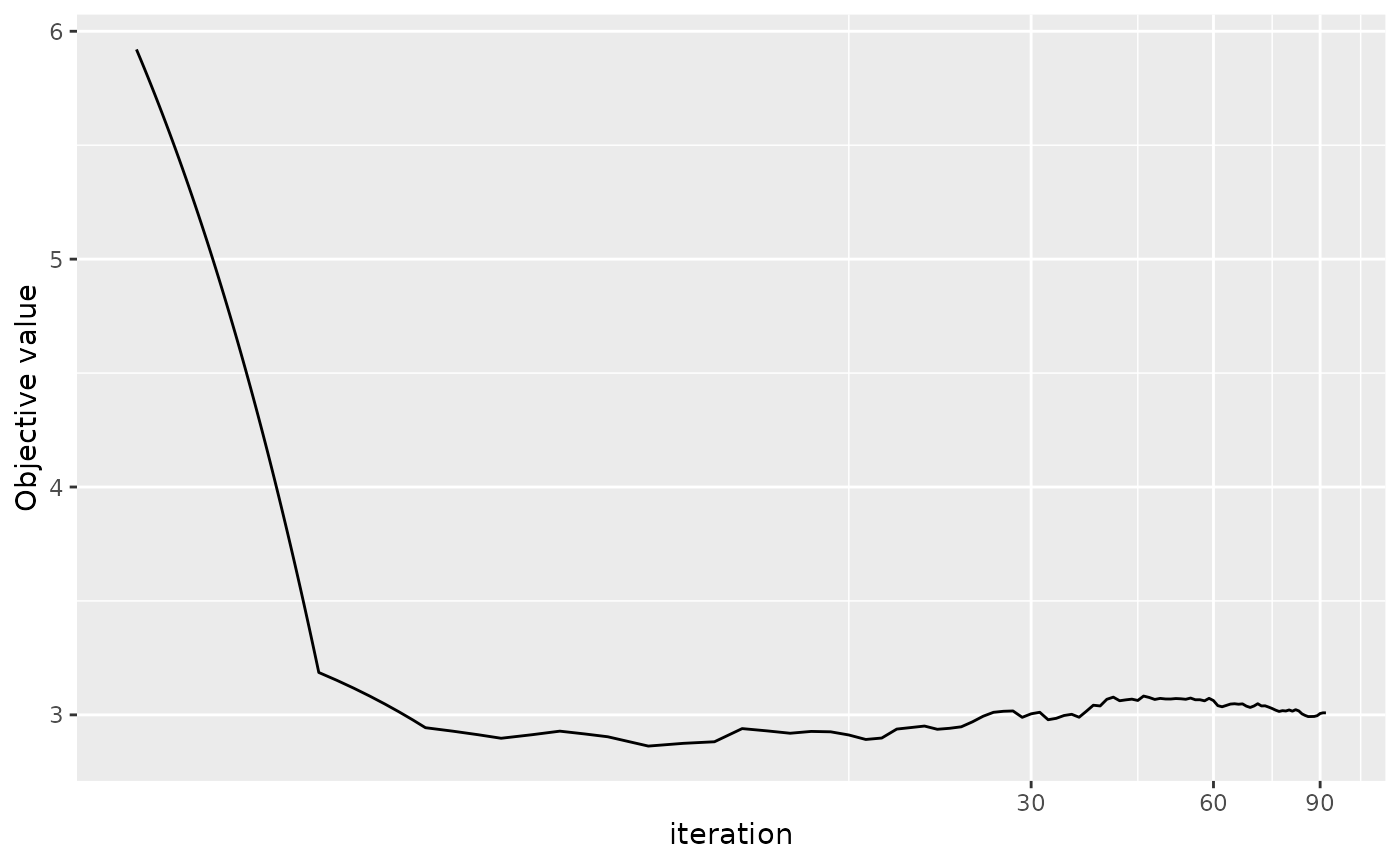
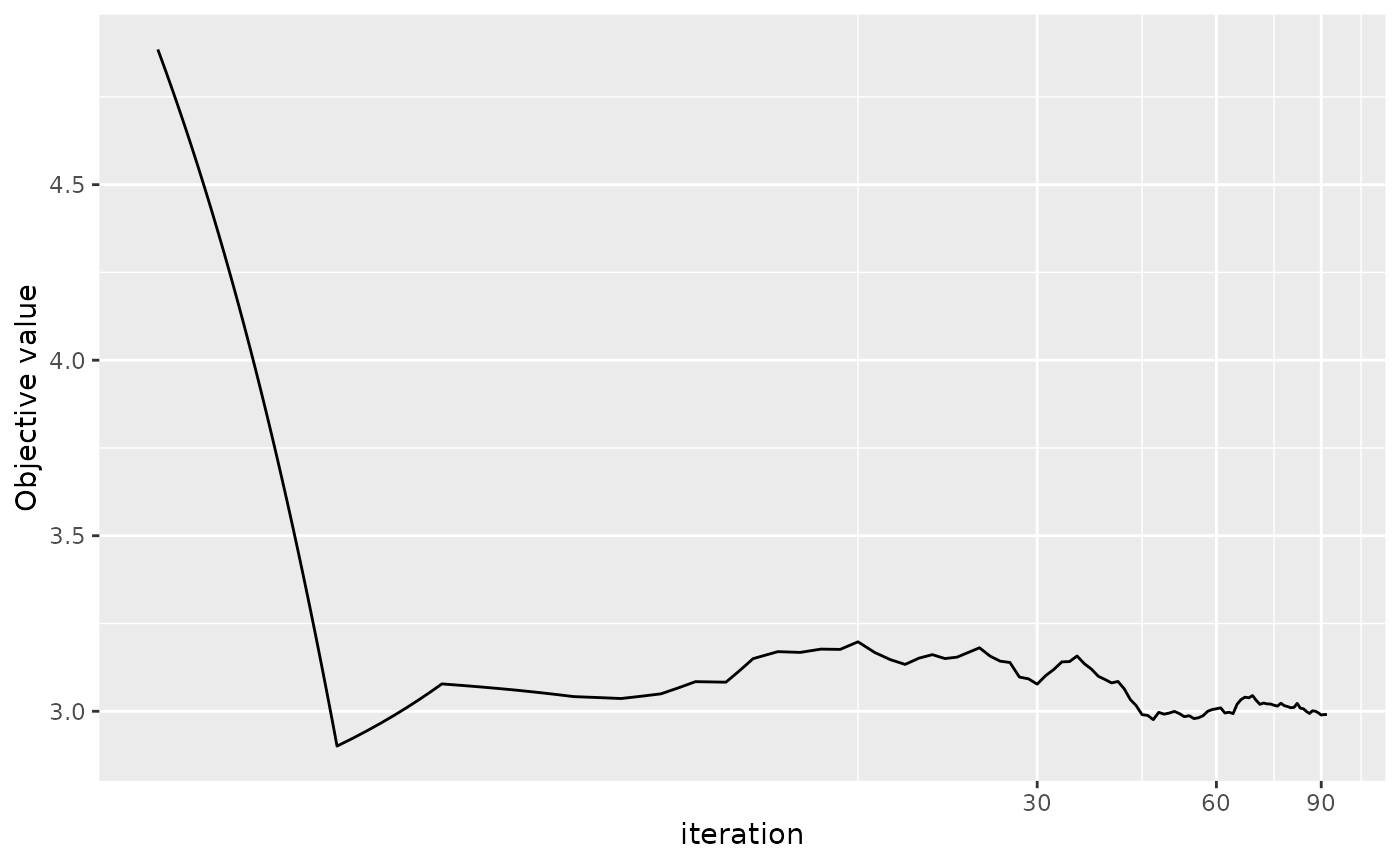
Deploying to gh-pages from @ FinYang/RRRR@dd312e85449cbbcb3aed78cf731174618f8fe3c3 🚀

diff --git a/articles/RRRR.html b/articles/RRRR.html
@@ -157,9 +157,9 @@ regression, use function <code>RRR_sim</code>.</p>
 <span><span class="co">#&gt; </span></span>
 <span><span class="co">#&gt; Coefficients:</span></span>
 <span><span class="co">#&gt;         mu        A        B        D   Sigma1   Sigma2   Sigma3</span></span>
-<span><span class="co">#&gt; 1  0.10000  0.62721  1.12936  0.13125  1.00000  0.00000  0.00000</span></span>
-<span><span class="co">#&gt; 2  0.10000 -2.10310 -1.11001  0.75837  0.00000  1.00000  0.00000</span></span>
-<span><span class="co">#&gt; 3  0.10000  0.32877  0.67127  0.79164  0.00000  0.00000  1.00000</span></span></code></pre></div>
+<span><span class="co">#&gt; 1  0.10000  0.81409 -0.69149  0.17221  1.00000  0.00000  0.00000</span></span>
+<span><span class="co">#&gt; 2  0.10000 -0.99945 -1.28426 -1.32513  0.00000  1.00000  0.00000</span></span>
+<span><span class="co">#&gt; 3  0.10000 -0.92986 -0.66009 -0.40722  0.00000  0.00000  1.00000</span></span></code></pre></div>
 <p>A number of parameters can be specified. See <code><a href="../reference/RRR_sim.html">?RRR_sim</a></code>.
 The default arguments are set in such a way that the matrix resulted
 from <span class="math inline">\(AB'\)</span> will be a reduced rank
@@ -172,16 +172,16 @@ coefficient matrix with rank of <span class="math inline">\(r\)</span>.</p>
 <span><span class="co">#&gt;   ..$ N    : num 1000</span></span>
 <span><span class="co">#&gt;   ..$ Q    : num 3</span></span>
 <span><span class="co">#&gt;   ..$ R    : num 1</span></span>
-<span><span class="co">#&gt;   ..$ A    : num [1:3, 1] 0.627 -2.103 0.329</span></span>
-<span><span class="co">#&gt;   ..$ B    : num [1:3, 1] 1.129 -1.11 0.671</span></span>
+<span><span class="co">#&gt;   ..$ A    : num [1:3, 1] 0.814 -0.999 -0.93</span></span>
+<span><span class="co">#&gt;   ..$ B    : num [1:3, 1] -0.691 -1.284 -0.66</span></span>
 <span><span class="co">#&gt;   ..$ mu   : num [1:3] 0.1 0.1 0.1</span></span>
-<span><span class="co">#&gt;   ..$ D    : num [1:3, 1] 0.131 0.758 0.792</span></span>
+<span><span class="co">#&gt;   ..$ D    : num [1:3, 1] 0.172 -1.325 -0.407</span></span>
 <span><span class="co">#&gt;   ..$ r    : num 1</span></span>
 <span><span class="co">#&gt;   ..$ Sigma: num [1:3, 1:3] 1 0 0 0 1 0 0 0 1</span></span>
-<span><span class="co">#&gt;   ..$ innov: num [1:1000, 1:3] 1.419 -1.039 4.592 -1.042 -0.419 ...</span></span>
-<span><span class="co">#&gt;  $ y   : num [1:1000, 1:3] 2.166 -1.591 5.021 -0.767 -0.465 ...</span></span>
-<span><span class="co">#&gt;  $ x   : num [1:1000, 1:3] 0.896 0.12 1.335 -0.384 0.494 ...</span></span>
-<span><span class="co">#&gt;  $ z   : num [1:1000] 0.1566 -0.9495 0.0426 0.5244 0.6924 ...</span></span>
+<span><span class="co">#&gt;   ..$ innov: num [1:1000, 1:3] -1.038 0.379 1.043 -0.479 1.511 ...</span></span>
+<span><span class="co">#&gt;  $ y   : num [1:1000, 1:3] -2.112 0.121 1.523 0.483 1.089 ...</span></span>
+<span><span class="co">#&gt;  $ x   : num [1:1000, 1:3] 0.947 -0.203 0.526 0.156 0.455 ...</span></span>
+<span><span class="co">#&gt;  $ z   : num [1:1000] 0.515 0.83 0.289 0.777 -0.638 ...</span></span>
 <span><span class="co">#&gt;  - attr(*, "class")= chr [1:2] "RRR_data" "list"</span></span></code></pre></div>
 <p>The returned list of <code>RRR_sim</code> contains the input
 specifications and the data points <span class="math inline">\(y\)</span>, <span class="math inline">\(x\)</span>
@@ -206,9 +206,9 @@ and outliers.</p>
 <span><span class="co">#&gt; </span></span>
 <span><span class="co">#&gt; Coefficients:</span></span>
 <span><span class="co">#&gt;          mu         A         B         D    Sigma1    Sigma2    Sigma3</span></span>
-<span><span class="co">#&gt; 1  0.134171  1.166743  0.665654  0.096133  2.338893  0.119317  0.044541</span></span>
-<span><span class="co">#&gt; 2  0.065551 -3.736993 -0.626733  0.697649  0.119317  2.367729  0.013317</span></span>
-<span><span class="co">#&gt; 3  0.160009  0.530910  0.382859  0.761501  0.044541  0.013317  2.333359</span></span></code></pre></div>
+<span><span class="co">#&gt; 1  0.146481  1.327350 -0.410159  0.182429  2.658987 -0.444040 -0.443237</span></span>
+<span><span class="co">#&gt; 2  0.022299 -1.515145 -0.787531 -1.314574 -0.444040  3.197600  0.134199</span></span>
+<span><span class="co">#&gt; 3  0.100401 -1.477977 -0.375371 -0.301674 -0.443237  0.134199  3.224112</span></span></code></pre></div>
 <p>The matrix <span class="math inline">\(z\)</span> and the constant
 <span class="math inline">\(\mu\)</span> term are optional.</p>
 <div class="sourceCode" id="cb5"><pre class="downlit sourceCode r">
@@ -239,9 +239,9 @@ distribution for the innovations. As before the matrix <span class="math inline"
 <span><span class="co">#&gt; </span></span>
 <span><span class="co">#&gt; Coefficients:</span></span>
 <span><span class="co">#&gt;           mu          A          B          D     Sigma1     Sigma2     Sigma3</span></span>
-<span><span class="co">#&gt; 1  0.1040522  0.5891696  1.3051178  0.1228557  0.7067536  0.0439046  0.0141813</span></span>
-<span><span class="co">#&gt; 2  0.0938904 -1.8825879 -1.2448022  0.7172475  0.0439046  0.6567892 -0.0099008</span></span>
-<span><span class="co">#&gt; 3  0.1505221  0.2716814  0.7525055  0.7959943  0.0141813 -0.0099008  0.7039659</span></span></code></pre></div>
+<span><span class="co">#&gt; 1  0.0882130  0.6429168 -0.8770157  0.2023801  0.6116671 -0.0059146  0.0188551</span></span>
+<span><span class="co">#&gt; 2  0.0341914 -0.7646514 -1.6059323 -1.3027663 -0.0059146  0.7028833  0.0304197</span></span>
+<span><span class="co">#&gt; 3  0.0924960 -0.6926132 -0.8383183 -0.3551723  0.0188551  0.0304197  0.6334672</span></span></code></pre></div>
 <p>Additional arguments that are worth noticing are <code>itr</code>,
 which control the maximum number of iteration, and
 <code>earlystop</code>, which is the criteria to stop the algorithm
@@ -299,9 +299,9 @@ which can be much easier to optimise.</p>
 <span><span class="co">#&gt; </span></span>
 <span><span class="co">#&gt; Coefficients:</span></span>
 <span><span class="co">#&gt;           mu          A          B          D     Sigma1     Sigma2     Sigma3</span></span>
-<span><span class="co">#&gt; 1  0.1022580  0.5905870  1.2985291  0.1225323  0.7203336  0.0444201  0.0154548</span></span>
-<span><span class="co">#&gt; 2  0.0941190 -1.8928192 -1.2379305  0.7149049  0.0444201  0.6653888 -0.0087178</span></span>
-<span><span class="co">#&gt; 3  0.1488946  0.2726923  0.7484163  0.7954071  0.0154548 -0.0087178  0.7141912</span></span></code></pre></div>
+<span><span class="co">#&gt; 1  0.0910272  0.6480791 -0.8692483  0.2019537  0.6269427 -0.0068799  0.0193133</span></span>
+<span><span class="co">#&gt; 2  0.0345940 -0.7723313 -1.5909911 -1.3041306 -0.0068799  0.7179936  0.0308225</span></span>
+<span><span class="co">#&gt; 3  0.0923465 -0.6975678 -0.8326557 -0.3561242  0.0193133  0.0308225  0.6500943</span></span></code></pre></div>
 <p>The simulated data set is of size 1000. In the above command, in the
 first iteration 100 realisations are used in the estimation with 10 more
 data points in each of the following iteration. Because of the
@@ -360,9 +360,9 @@ estimation.</p>
 <span><span class="co">#&gt; </span></span>
 <span><span class="co">#&gt; Coefficients:</span></span>
 <span><span class="co">#&gt;          mu         A         B         D    Sigma1    Sigma2    Sigma3</span></span>
-<span><span class="co">#&gt; 1  0.129932  0.271481  1.350387  0.432608  2.028395 -0.679939  1.057132</span></span>
-<span><span class="co">#&gt; 2  0.096514 -1.270454 -1.565352  0.875051 -0.679939  2.175764 -0.630319</span></span>
-<span><span class="co">#&gt; 3  0.139866  0.070783  0.990905  0.567532  1.057132 -0.630319  1.947797</span></span></code></pre></div>
+<span><span class="co">#&gt; 1  0.105531  0.405278 -1.177303  0.303842  1.232420 -0.499720 -0.685873</span></span>
+<span><span class="co">#&gt; 2  0.070988 -0.476790 -1.181063 -0.850297 -0.499720  1.543809  0.968520</span></span>
+<span><span class="co">#&gt; 3  0.058743 -0.498481 -1.279081  0.326124 -0.685873  0.968520  2.172315</span></span></code></pre></div>
 <p>Without other arguments specified, <code>update</code> will just take
 the original specification in the model. If it applies to output of
 <code>RRRR</code>, then the default would be the default arguments in
